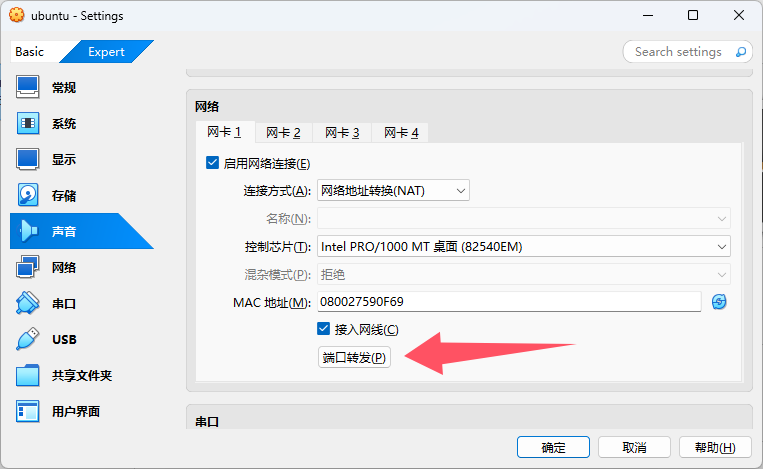
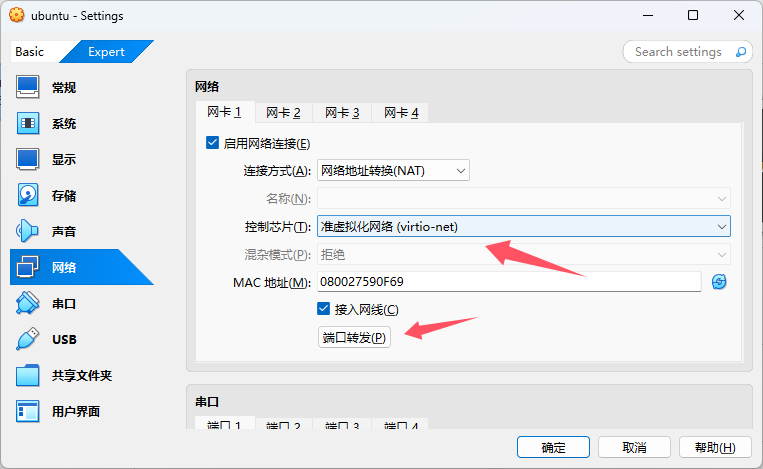
docs(2.开发环境配置): 优化内容 (#296)

diff --git a/2.编程模块/2.1 NekoBytes-TheMissing/2.1.1 Book/2.开发环境配置.md b/2.编程模块/2.1 NekoBytes-TheMissing/2.1.1 Book/2.开发环境配置.md
@@ -65,15 +65,34 @@
 
 ![创建用户](https://cdn.xyxsw.site/virtualbox-ubuntu9.png)
 
-输入“用户名-密码”创建用户，等待系统安装完毕，等待虚拟机自动重启后，按下键盘“Enter”回车键启动系统，进入系统后先关闭虚拟机。
+输入“用户名-密码”创建用户，等待系统安装完毕，等待虚拟机自动重启后，按下键盘“Enter”回车键启动系统，进入系统后先**关闭**虚拟机。
+
+![设置虚拟机快照](static/virtualbox-ubuntu24.png)
+
+点击左侧菜单，选择“备份[系统快照]”，进入虚拟机快照界面。
+
+![创建快照](static/virtualbox-ubuntu25.png)
+
+点击上方“生成”按钮，为安装的虚拟机系统设置初始快照，便于后续出现问题后进行恢复。
+
+![恢复快照](static/virtualbox-ubuntu26.png)
+
+如果后续出现误操作，可以回到快照界面，选择之前创建的快照，点击上方“恢复备份”，将虚拟机恢复到初始系统状态。
 
 ![设置虚拟机粘贴板](https://cdn.xyxsw.site/virtualbox-ubuntu10.png)
 
 回到VirtualBox主界面，选择虚拟机，点击“设置”，在“常规”-“高级”中调整“共享粘贴板”为双向，方便后续操作。
 
-![设置虚拟机网络配置](https://cdn.xyxsw.site/virtualbox-ubuntu11.png)
+![设置虚拟机网络配置](static/virtualbox-ubuntu11.png)
 
-在“网络”-“网卡1”中，确保连接方式选择为“网络地址转换(NAT)”，点击“端口转发”。
+在“网络”-“网卡1”中，确保连接方式选择为“网络地址转换(NAT)”，设置“控制芯片”为“准虚拟化网络(virtio-net)”，点击“端口转发”。
+
+> [!CAUTION]
+> 由于 Virtual Box 7.1 版本目前在 Windows 系统下网络连接方式选择“NAT”方式会导致严重的网络性能下降（大约为物理网络的1/100）。
+>
+> 设置“控制芯片”选择“virtio-net”可以一定程度上缓解这个问题，此时的网络大约为物理网络的1/25。
+>
+> 如果实在难以忍受低速的网络效率，可以选择安装[7.0 版本的 Virtual Box](https://www.virtualbox.org/wiki/Download_Old_Builds_7_0)。
 
 ![配置ssh端口转发](https://cdn.xyxsw.site/virtualbox-ubuntu12.png)
 
@@ -83,6 +102,9 @@
 
 启动虚拟机，点击上方“设备”-“安装增强功能”，为虚拟机安装增强功能。
 
+> [!CAUTION]
+> 请忽略所有系统弹窗提示（例如：提示更新系统软件）
+
 ![安装增强功能](https://cdn.xyxsw.site/virtualbox-ubuntu14.png)
 
 找到自动插入的"VBox_GAs"文件夹，右键“autorun.sh”选择“Run as a Program”运行脚本，完成增强功能安装。
@@ -90,6 +112,9 @@
 ![设置共享文件夹](https://cdn.xyxsw.site/virtualbox-ubuntu15.png)
 
 退出虚拟机，进入虚拟机设置，选择“共享文件夹”，点击“右侧加号”，添加共享文件夹，选择“系统初始化工具”所在的路径，设置挂载点为“/mnt/share”，设置“只读分配”和“自动挂载”。
+
+> [!CAUTION]
+> 注意选择“系统初始化工具”即“setup.tar.gz”文件所在的文件夹，共享文件夹路径未必为图片显示，请选择自己电脑上的路径。
 
 ![找到系统初始化工具](https://cdn.xyxsw.site/virtualbox-ubuntu16.png)
 
@@ -112,6 +137,9 @@ bash common.sh          # 运行初始化脚本
 提示输入密码“[sudo] password for user:”，输入密码（此时终端禁止回显，不会显示输入的字符）后敲击回车，等待脚本运行完毕（运行期间可能需要再次输入密码）。
 
 “系统初始化工具”运行结束后，在终端输入`reboot`重启系统。
+
+> [!CAUTION]
+> 注意脚本运行期间没有输出报错信息即为正在运行，请耐心等待脚本结束。
 
 ![打开系统设置](https://cdn.xyxsw.site/virtualbox-ubuntu19.png)
 
@@ -161,7 +189,7 @@ bash common.sh          # 运行初始化脚本
 
 ![VSCode ssh](https://cdn.xyxsw.site/VSCode-ssh2.png)
 
-在上方弹出的界面中输入“用户名@localhost:9090（上面端口转发配置的主机端口）”，如果“localhost”无法使用，可以用“127.0.0.1”代替（请检查系统的hosts配置），之后按照提示（指纹验证选择“继续”，平台选择“Linux”，输入用户密码）完成连接即可（第一次连接期间需要下载资源，请耐心等待）。
+在上方弹出的界面中输入“用户名（为虚拟机系统的用户，非本机Windows系统的用户）@localhost:9090（上面端口转发配置的主机端口）”，如果“localhost”无法使用，可以用“127.0.0.1”代替（请检查系统的hosts配置），之后按照提示（指纹验证选择“继续”，平台选择“Linux”，输入用户密码）完成连接即可（第一次连接期间需要下载资源，请耐心等待）。
 
 ## 7. 使用Windows终端进行编程（可选）
 
